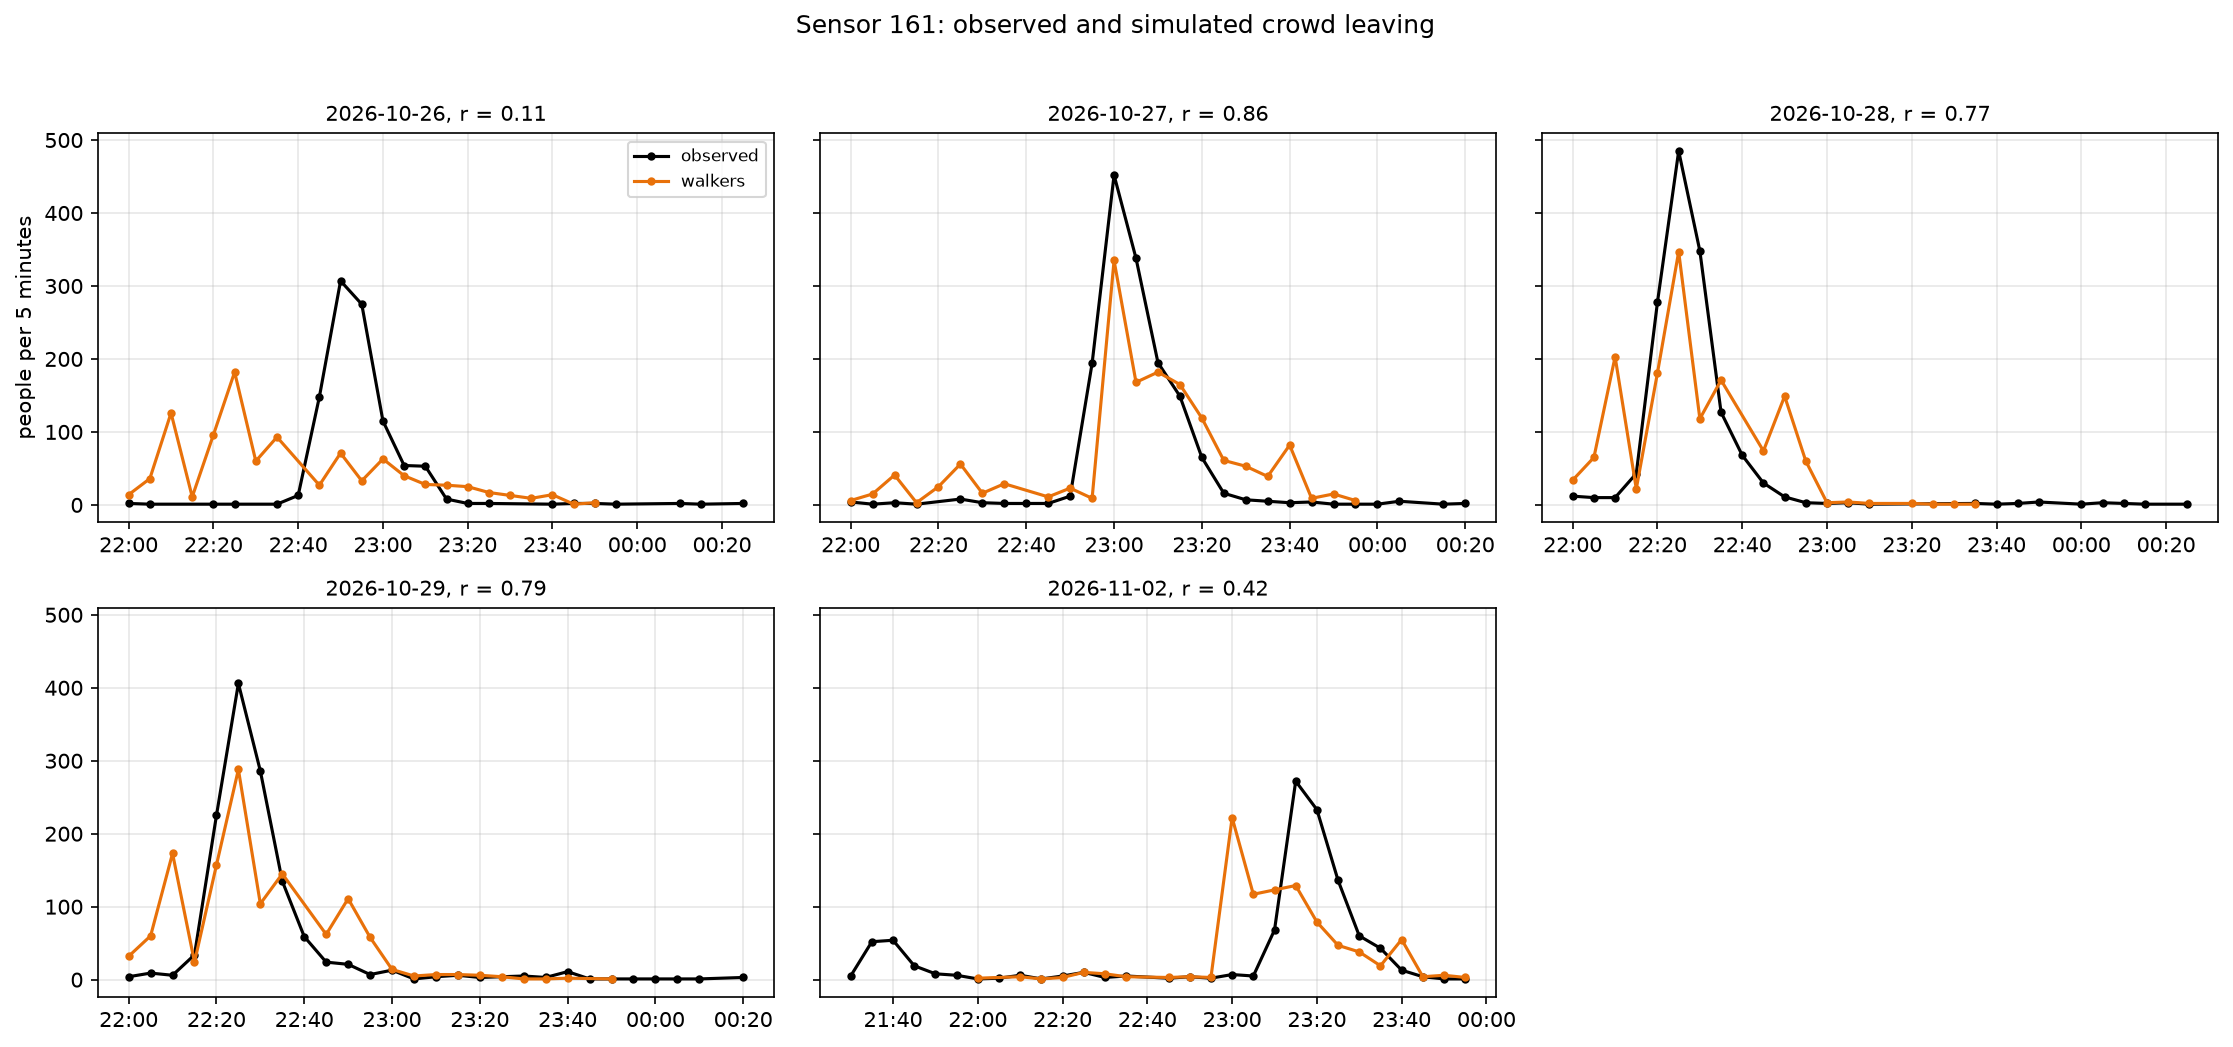
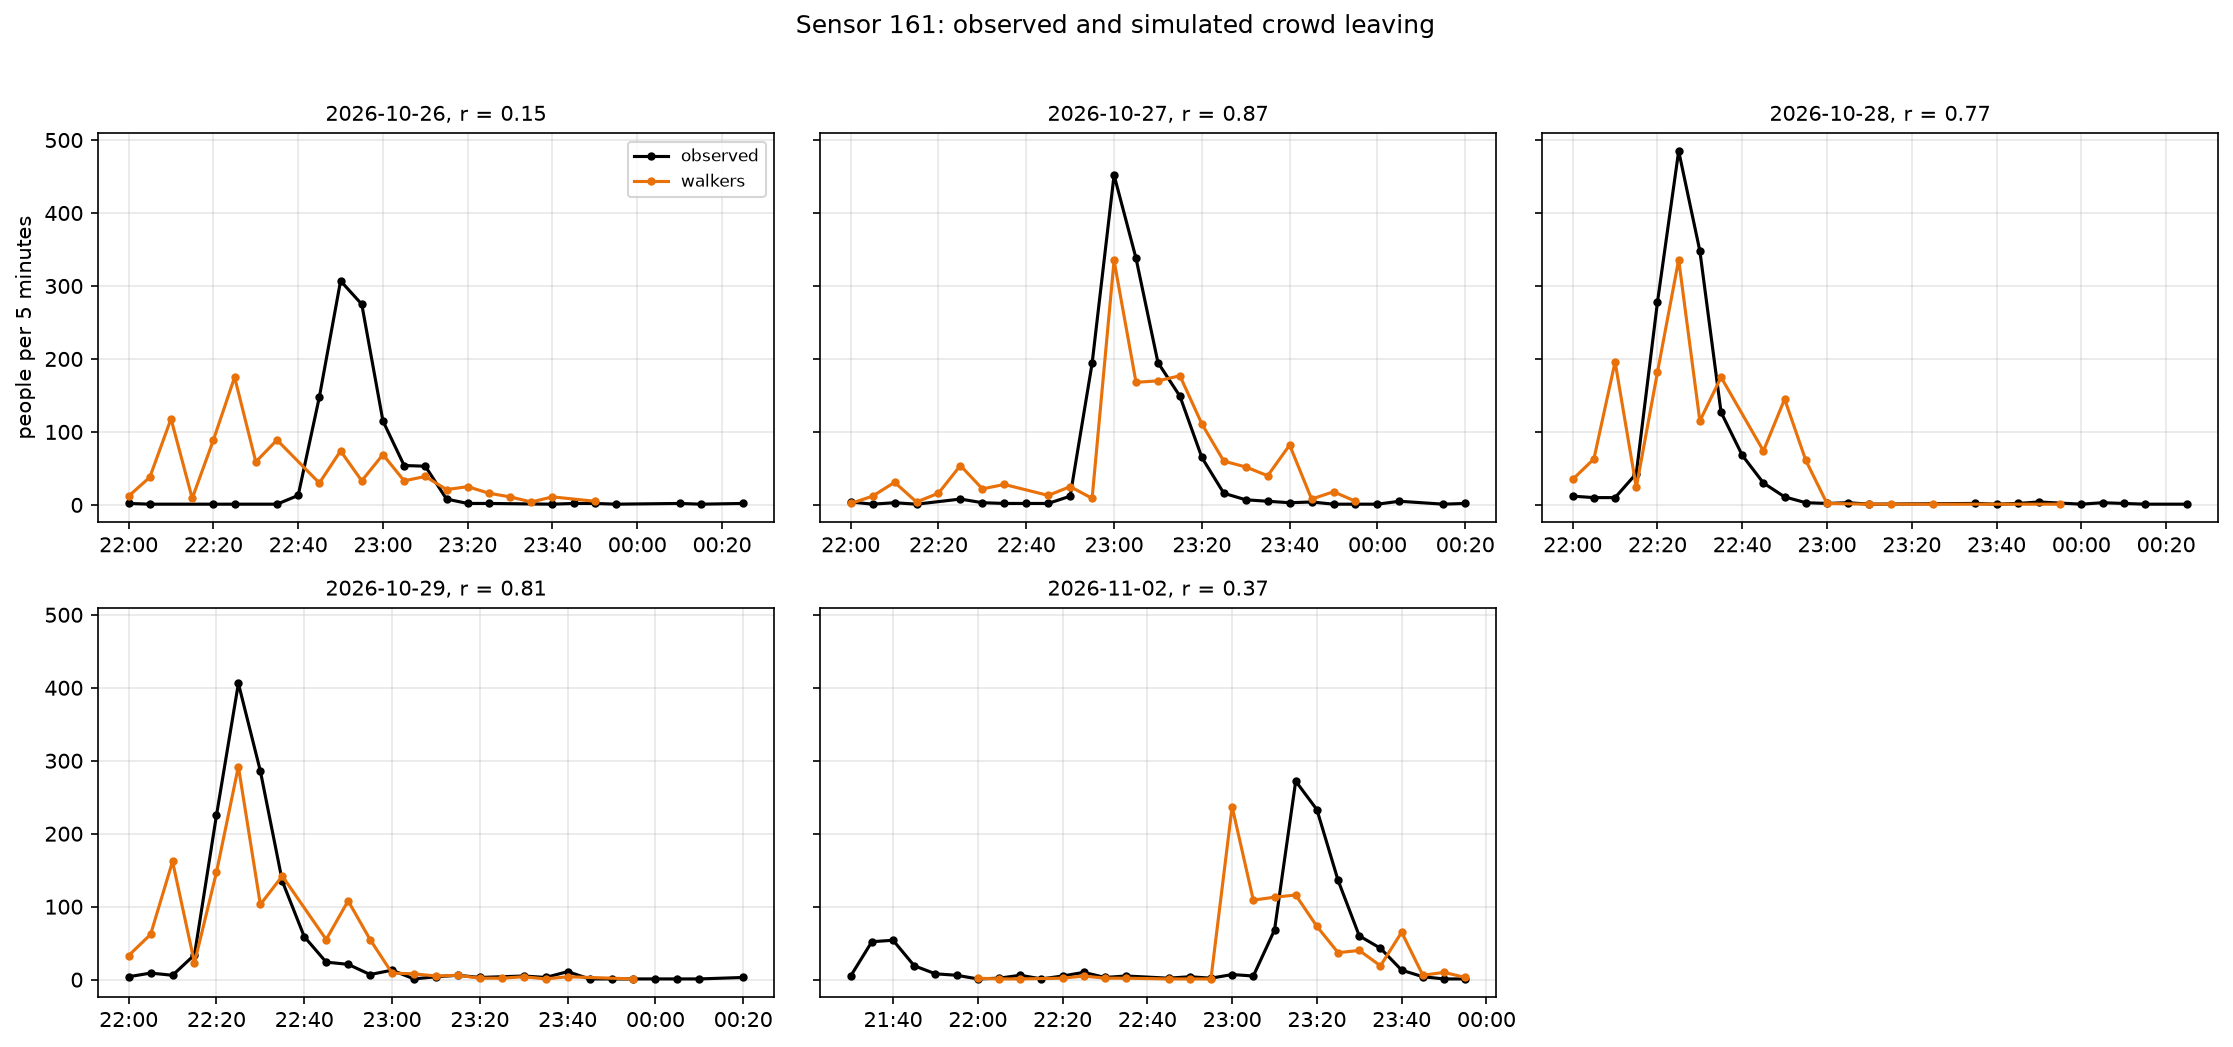
fit walkers to the concert crowd only, add figures

diff --git a/src/simulation/walkers.py b/src/simulation/walkers.py
@@ -7,8 +7,10 @@ For one night at one area:
 2. Several routes per destination come from shortest paths on segment length, each
    with random noise on the costs, so walkers don't all take one path.
 3. Walkers per route and hour are fitted with non-negative least squares so that the
-   number passing each fitted sensor matches its observed hourly count, pulled towards
-   a prior that splits the crowd by destination weight and favours shorter routes.
+   number passing each fitted sensor matches its observed hourly count less the usual
+   count for that hour (a low percentile of the same weekday and hour in the weeks
+   before, skipping listed event days), pulled towards a prior that splits the crowd by
+   destination weight and favours shorter routes.
 4. Each walker's time at the first sensor on its route is drawn at random from the
    event-exit minute profile, and it reaches later sensors at walking speed.
 5. Counts per 5-minute block and sensor are split into directions with the sensor's
@@ -120,6 +122,33 @@ def incidence(
                 passes[i, j] = 1.0
                 offset[i, j] = where[sensor_segments[sensor]]
     return passes, offset
+
+
+def background(
+    hourly: pd.DataFrame,
+    night: str,
+    hours: list[int],
+    weeks: int,
+    event_dates: set,
+    quantile: float = 0.5,
+) -> dict[tuple[int, int], float]:
+    """The usual count per sensor and hour, to subtract from an event night's count.
+
+    It is the `quantile` of the counts at the same hour on the same weekday in the
+    `weeks` weeks before the night, leaving out listed event days. A low quantile keeps
+    it on quiet weeks when earlier events weren't listed. Local dates are shifted before
+    the hour is added, so a daylight saving change in between keeps the same clock hour.
+    """
+    day = pd.Timestamp(night)
+    before = [day - pd.Timedelta(weeks=k) for k in range(1, weeks + 1)]
+    before = [d for d in before if d.date() not in event_dates]
+    usual = {}
+    for hour in hours:
+        starts = [(d + pd.Timedelta(hours=hour)).tz_localize(TZ) for d in before]
+        rows = hourly[hourly["ts_local"].isin(starts)]
+        for sensor, counts in rows.groupby("location_id")["pedestriancount"]:
+            usual[(int(sensor), hour)] = float(counts.quantile(quantile))
+    return usual
 
 
 def route_prior(
@@ -350,6 +379,17 @@ def run(
         & (profiles["hour_type"] == "event_post")
     ]
 
+    event_days = pd.read_parquet(REPO_ROOT / settings["event_days"])
+    event_dates = set(pd.to_datetime(event_days["date_local"]).dt.date)
+    usual = background(
+        hourly,
+        night,
+        cfg["hours"],
+        cfg["baseline_weeks"],
+        event_dates,
+        cfg["baseline_quantile"],
+    )
+
     fitted = [s for s in sensors if s in cfg["fit_sensors"]]
     fit_rows = [sensors.index(s) for s in fitted]
     day = pd.Timestamp(night, tz=TZ)
@@ -360,7 +400,9 @@ def run(
         start = day + pd.Timedelta(hours=hour)
         now = hourly[hourly["ts_local"] == start].set_index("location_id")
         counts = now["pedestriancount"]
-        targets = np.array([counts.get(s, 0.0) for s in fitted], dtype=float)
+        observed_now = np.array([counts.get(s, 0.0) for s in fitted], dtype=float)
+        usual_now = np.array([usual.get((s, hour), 0.0) for s in fitted])
+        targets = np.clip(observed_now - usual_now, 0.0, None)
         crowd = float(targets.max(initial=0.0))
         prior = route_prior(routes, weights, crowd, cfg["length_beta"])
         trips = fit_trips(passes[fit_rows], targets, prior, cfg["prior_weight"])
@@ -386,8 +428,10 @@ def run(
                 share_1 = now.loc[s, "direction_1"] / counts[s]
                 direction_share[(s, start.hour)] = share_1
         log.info(
-            "hour %02d: fitted targets %s, walkers %d",
+            "hour %02d: observed %s, usual %s, fitted %s, walkers %d",
             hour,
+            observed_now.astype(int).tolist(),
+            np.round(usual_now).astype(int).tolist(),
             targets.astype(int).tolist(),
             round(trips.sum()),
         )

diff --git a/tests/simulation/test_walkers.py b/tests/simulation/test_walkers.py
@@ -140,3 +140,37 @@ def test_the_route_table_keeps_walkers_and_segments_in_order():
     assert list(table["destination"]) == ["d", "e"]
     assert list(table["walkers"]) == [12.5, 0.0]
     assert list(table["segments"][0]) == ["oa", "aj", "jd"]
+
+
+def test_the_usual_count_is_the_median_of_earlier_weeks_without_event_days():
+    rows = []
+    for weeks_before, count in [(1, 30), (2, 50), (3, 40), (4, 999)]:
+        day = pd.Timestamp("2026-10-27") - pd.Timedelta(weeks=weeks_before)
+        start = (day + pd.Timedelta(hours=23)).tz_localize(TZ)
+        rows.append({"location_id": 161, "ts_local": start, "pedestriancount": count})
+    hourly = pd.DataFrame(rows)
+    event_day = (pd.Timestamp("2026-10-27") - pd.Timedelta(weeks=4)).date()
+    usual = walkers.background(hourly, "2026-10-27", [23], 4, {event_day})
+    assert usual == {(161, 23): 40.0}
+
+
+def test_the_usual_count_keeps_the_clock_hour_across_daylight_saving():
+    before = (pd.Timestamp("2026-10-06") + pd.Timedelta(hours=22)).tz_localize(TZ)
+    hourly = pd.DataFrame(
+        {"location_id": [161], "ts_local": [before], "pedestriancount": [12]}
+    )
+    usual = walkers.background(hourly, "2026-10-06", [22], 1, set())
+    assert usual == {}
+    later = walkers.background(hourly, "2026-10-13", [22], 1, set())
+    assert later == {(161, 22): 12.0}
+
+
+def test_a_low_quantile_ignores_unlisted_event_weeks():
+    rows = []
+    for weeks_before, count in enumerate([700, 10, 1200, 15, 900, 12, 20, 1100], 1):
+        day = pd.Timestamp("2026-10-27") - pd.Timedelta(weeks=weeks_before)
+        start = (day + pd.Timedelta(hours=22)).tz_localize(TZ)
+        rows.append({"location_id": 161, "ts_local": start, "pedestriancount": count})
+    hourly = pd.DataFrame(rows)
+    usual = walkers.background(hourly, "2026-10-27", [22], 8, set(), quantile=0.25)
+    assert usual[(161, 22)] < 20

diff --git a/docs/simulation/observed_egress.md b/docs/simulation/observed_egress.md
@@ -1,7 +1,10 @@
 # Observed egress at Melbourne Park
 
-The first step of the simulation in [getting_started.md](getting_started.md): the observed
-series that the walkers and JuPedSim are compared with.
+The first steps of the simulation in [getting_started.md](getting_started.md): the
+observed series that the walkers and JuPedSim are compared with, and the walkers
+themselves.
+
+## Observed egress
 
 `src/simulation/observed.py` takes each concert at Rod Laver Arena and builds the counts at
 sensors 161, 136, 123, 124 and 75 in 5-minute blocks and by direction, from 2.5 to 5 hours
@@ -12,8 +15,6 @@ after the advertised start (no end times are published). Settings are in
 ```bash
 .venv/bin/python -m src.simulation.observed --area melbourne_park
 ```
-
-## Results
 
 On the archive to 11 November (8 of the 14 concerts listed):
 
@@ -31,69 +32,83 @@ On the archive to 11 November (8 of the 14 concerts listed):
 - Sensor 161 carries the crowd (1,000 to 1,500 a night); 136 sees about a tenth to a
   quarter of it, peaking in the same block or 5 minutes later. 123 and 75 see 13 to 66
   people and 124 almost none, so most of the crowd leaves the route after 161. 161 is the
-  main validation sensor and 136 the second; peak delays at the others are noise.
+  main sensor to compare with, and 136 the second; peak delays at the others are noise.
 - 27 October matches the 1,417 people at 161 between 22:50 and 23:30 noted in
   getting_started.md.
-- The Daniel Caesar nights show almost no crowd; their entries in `configs/events.yaml`
-  need checking before they're used.
+- The Daniel Caesar shows on 8 and 9 November were cancelled for health reasons (reported
+  in early November), so there was no crowd. Their entries in `configs/events.yaml`
+  should be marked or removed.
 - 25 October and 28 October had another event at Melbourne Park the same night.
 - None of the five sensors are among the eight that skip minutes :00 to :04.
 
-## Walkers on 27 October
+## Walkers
 
 `src/simulation/walkers.py` follows steps 1 and 2 of getting_started.md. Walkers leave
 from the graph nodes within 60 m of Rod Laver Arena, towards Flinders Street, Richmond,
-Jolimont and Parliament stations, on 20 noisy shortest paths per destination. Walkers per
-route are fitted with non-negative least squares to the hourly counts at 22:00 and 23:00
-at sensors 161, 123, 124 and 75; 136 is left out as the test. Each walker's time at its
-first sensor is drawn from sensor 161's event-exit minute profile, and later sensors
-follow at 1.3 m/s. Settings are under `walkers:` in `configs/simulation.yaml`.
+Jolimont and Parliament stations, on 20 noisy shortest paths per destination.
+
+Walkers per route are fitted with non-negative least squares to the hourly counts at
+22:00 and 23:00 at sensors 161, 123, 124 and 75, less the usual count for that hour, so
+that only the concert crowd is fitted. The usual count is the 25th percentile of the same
+weekday and hour over the 8 weeks before, skipping listed event days; Melbourne Park has
+unlisted events most weeks, which pushed a median up to over 500 people. Sensor 136 is
+left out of the fit as the test. Each walker's time at its first sensor is drawn from
+sensor 161's event-exit minute profile, and later sensors follow at 1.3 m/s. Settings are
+under `walkers:` in `configs/simulation.yaml`.
 
 ```bash
 .venv/bin/python -m src.simulation.walkers --area melbourne_park --night 2026-10-27
 ```
 
-| Sensor | In the fit | Observed | Simulated | Observed peak | Simulated peak | Correlation |
+Sensor 161 on the five concert nights:
+
+| Night | Observed | Usual (both hours) | Simulated | Observed peak | Simulated peak | Correlation |
 |---|---|---|---|---|---|---|
-| 161 | Yes | 1,477 | 1,468 | 23:00 (452) | 23:00 (335) | 0.87 |
-| 75 | Yes | 38 | 19 | 23:10 (9) | 23:10 (4) | 0.46 |
-| 123 | Yes | 66 | 0 | 23:00 (28) | none | |
-| 124 | Yes | 0 | 19 | none | 23:00 (4) | |
-| 136 | No (test) | 335 | 0 | 23:00 (91) | none | |
+| 26 Oct | 994 | 30 | 960 | 22:50 | 22:25 | 0.15 |
+| 27 Oct | 1,477 | 22 | 1,442 | 23:00 | 23:00 | 0.87 |
+| 28 Oct | 1,448 | 23 | 1,412 | 22:25 | 22:25 | 0.77 |
+| 29 Oct | 1,271 | 40 | 1,224 | 22:25 | 22:25 | 0.81 |
+| 2 Nov | 1,028 | 39 | 846 | 23:15 | 23:00 | 0.37 |
 
-- At 161 the walkers match the total and the peak block. The simulated peak is flatter,
-  as getting_started.md expects from average profiles.
-- No sampled route passes 136, 123 or most of the riverside paths: shortest paths on
-  distance alone don't follow the river path the crowd uses after 161, so the test sensor
-  can't be checked yet.
-- Walkers on routes that pass no fitted sensor stay at the prior, so the total crowd
-  (about 2,200 in the 23:00 hour) is rough.
-- The minute profile is pooled from the same archive, including this night, so the
-  timing at 161 is not an independent test.
+**These results are not validated.** 161 is in the fit, so matching its totals is
+expected. The test sensor, 136, gets no sampled routes on any night: shortest paths on
+distance alone don't follow the river path the crowd takes after 161. 123 also gets no
+routes, and 75 and 124 get only a few walkers.
 
-### All five concert nights at sensor 161
+- The peak block at 161 matches on 27, 28 and 29 October. On 26 October and 2 November
+  the simulated peak comes 15 to 25 minutes early: the minute profile is pooled across
+  nights, so a show that finishes at an unusual time puts the peak in the wrong part of
+  the hour. 2 November also loses part of its crowd that leaves after midnight, outside
+  the fitted hours.
+- The minute profile comes from the same archive, including these nights, so the timing
+  at 161 is not an independent test either.
+- Walkers on routes that pass no fitted sensor stay at the prior, so the total crowd is
+  rough.
 
-The same settings on the other good nights:
+### Figures
 
-| Night | Observed | Simulated | Observed peak | Simulated peak | Correlation |
-|---|---|---|---|---|---|
-| 26 Oct | 994 | 989 | 22:50 | 22:25 | 0.11 |
-| 27 Oct | 1,477 | 1,468 | 23:00 | 23:00 | 0.87 |
-| 28 Oct | 1,448 | 1,438 | 22:25 | 22:25 | 0.77 |
-| 29 Oct | 1,271 | 1,262 | 22:25 | 22:25 | 0.79 |
-| 2 Nov | 1,028 | 884 | 23:15 | 23:00 | 0.42 |
+Produced by `src/simulation/figures.py`:
 
-- Totals match because 161 is in the fit. 2 November is lower because part of its crowd
-  leaves after midnight, outside the fitted hours.
-- The peak block matches on three nights. On 26 October and 2 November the simulated peak
-  comes 15 to 25 minutes early: the minute profile is pooled across nights, so a show that
-  finishes at an unusual time puts the peak in the wrong part of the hour. Calibrating
-  the departure spread per night (step 4) is the fix.
-- 75 gets about half its observed count each night, and 136 gets no routes on any night.
+```bash
+.venv/bin/python -m src.simulation.figures --area melbourne_park \
+    --map-night 2026-10-27 --nights 2026-10-26 2026-10-27 2026-10-28 2026-10-29 2026-11-02
+```
+
+![Walkers leaving the concert on 27 October](figures/walkers_map_2026-10-27.png)
+
+The walkers' routes from Rod Laver Arena, thicker and darker where more walkers go, with
+the sensors (red) and the stations they head to (blue).
+
+![Sensor 161 on five concert nights](figures/sensor_161_nights.png)
+
+Observed (black) and simulated (orange) people per 5 minutes at sensor 161.
+
+![Observed crowd at the five sensors on 27 October](figures/observed_2026-10-27.png)
 
 ## Next
 
 1. A route cost with path type, slope, shade and crossings, so routes follow the river
-   path, then check sensor 136.
-2. Run the other concert nights, fitting on some and testing on others.
-3. The same area in JuPedSim (microsim.py), with the walkers as input.
+   path, then the test at sensor 136.
+2. Calibrate the departure spread per night, fitting on some concert nights and testing
+   on others.
+3. The same area in JuPedSim (`microsim.py`), with the walkers as input.
